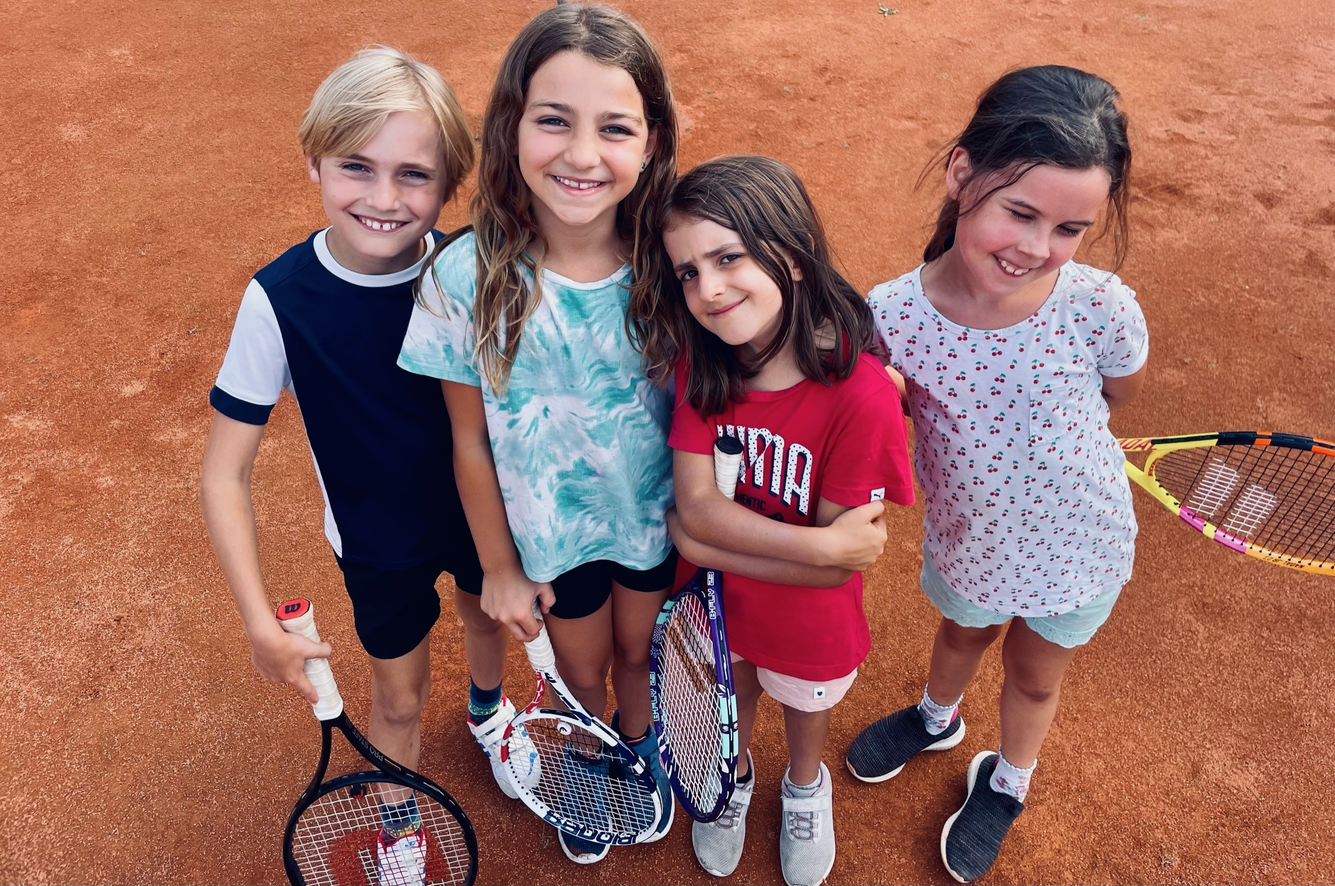
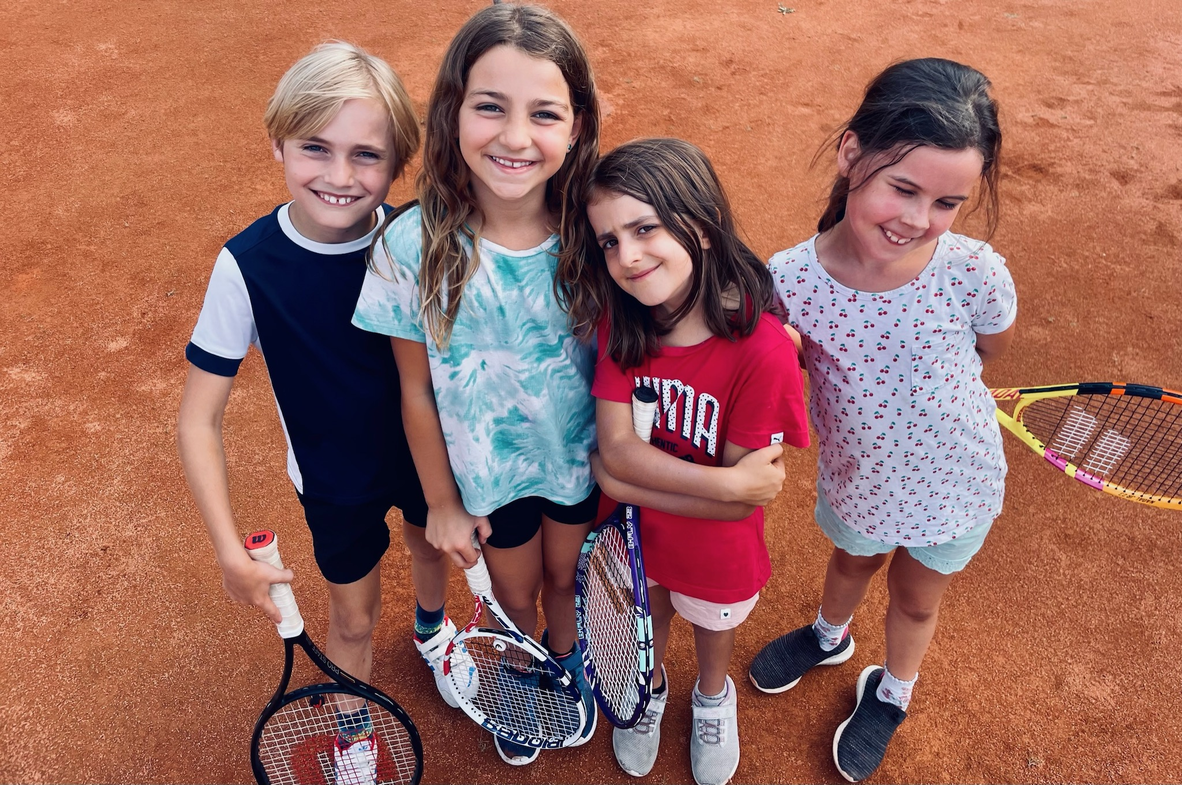
Deploying to gh-pages from @ smohadjer/slaven@26607965aec5cc2128af1ef1cafa786ed7e5c4d9 🚀

Changed region(s): [[0.4062, 0.6789, 0.5625, 0.9566], [0.25, 0.8949, 0.3125, 0.9258], [0.3125, 0.9875, 0.3438, 1.0]]

diff --git a/impressum.html b/impressum.html
@@ -37,8 +37,8 @@
     <main>
       <div class="stage internal">
         <div class="bg">
-          <img class="responsive object-fit-cover center"
-            src="assets/about.jpeg"
+          <img class="responsive object-fit-cover center-bottom"
+            src="assets/image03.jpeg"
             alt="" />
         </div>
       </div>

diff --git a/datenschutz.html b/datenschutz.html
@@ -38,7 +38,7 @@
       <div class="stage internal">
         <div class="bg">
           <img class="responsive object-fit-cover center"
-            src="assets/about.jpeg"
+            src="assets/image02.jpeg"
             alt="" />
         </div>
       </div>
